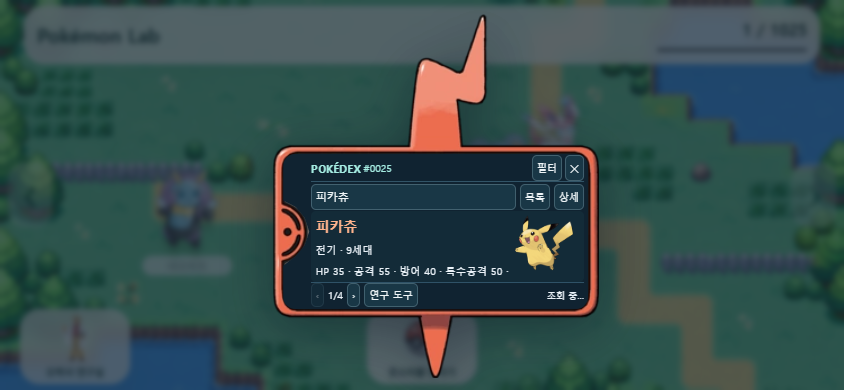
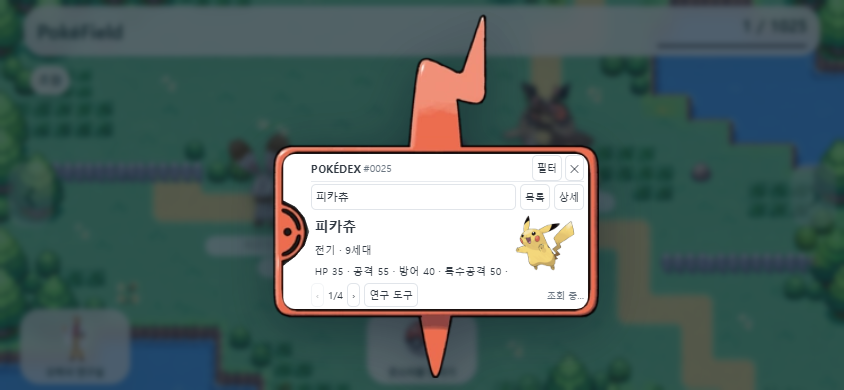
feat: PokéField 브랜딩과 필드·도감·포획 알림 개선

diff --git a/src/field/field.js b/src/field/field.js
@@ -3,7 +3,7 @@ export default function(component) {
  const {parentElement:root,data,setTriggerValue}=component;root.__pokemonLabCleanup?.();
  const $=s=>root.querySelector(s),field=$('#field'),creatures=$('#creatures'),ball=$('#throw'),projectile=$('#projectile'),aim=$('#aim'),notice=$('#notice'),background=$('#map-background');
  const regions=data.regions,byId=new Map(data.pool.map(p=>[p.id,p])),storageKey='pokemon-lab-regions-v2';let saved={};try{saved=JSON.parse(sessionStorage.getItem(storageKey)||'{}')}catch(_){}
- let stopped=false,frame=0,last=performance.now(),lastSave=0,flight=null,drag=null,swap=null,rotom=null;const timers=new Set();
+ let stopped=false,frame=0,last=performance.now(),lastSave=0,flight=null,drag=null,swap=null,rotom=null;const timers=new Set();let toastTimer=null,toastHideTimer=null,captureToast=saved.captureToast||null;
  function later(fn,ms){const id=setTimeout(()=>{timers.delete(id);if(!stopped)fn()},ms);timers.add(id);return id}
  let regionIndex=Math.max(0,Math.min(regions.length-1,Number(saved.regionIndex)||0));
  let targetCount=saved.targetCount||randomCount(),actors=(saved.actors||[]).filter(a=>regions[regionIndex].pool_ids.includes(a.id)&&a.phase!=='captured');
@@ -12,27 +12,38 @@ export default function(component) {
  let pending=saved.pending||null,popup=saved.popup||null,dexOpen=!!saved.dexOpen,nextSpawn=0;
  function current(){return regions[regionIndex]}
  function randomCount(){return Math.min(3+Math.floor(Math.random()*8),regions[regionIndex].pool_ids.length)}
- function save(){try{sessionStorage.setItem(storageKey,JSON.stringify({regionIndex,targetCount,actors:actors.map(({el,...a})=>a),pending,popup,dexOpen,target,appliedTarget}))}catch(_){} }
- function bounds(){const f=field.getBoundingClientRect(),h=$('header').getBoundingClientRect(),footer=$('footer').getBoundingClientRect(),size=f.width<600?72:90,height=f.width<600?90:110;return {w:f.width,h:f.height,size,height,left:62,top:Math.max(12,h.bottom-f.top+20),right:Math.max(62,f.width-size-62),bottom:Math.max(h.bottom-f.top+20,footer.top-f.top-height-12)}}
+ function save(){try{sessionStorage.setItem(storageKey,JSON.stringify({regionIndex,targetCount,actors:actors.map(({el,...a})=>a),pending,popup,dexOpen,target,appliedTarget,captureToast}))}catch(_){} }
+ function bounds(){const f=field.getBoundingClientRect(),h=$('header').getBoundingClientRect(),footer=$('footer').getBoundingClientRect(),style=getComputedStyle(field),size=parseFloat(style.getPropertyValue('--pokemon-size'))||(f.width<=600?84:108),height=parseFloat(style.getPropertyValue('--pokemon-height'))||(f.width<=600?106:130),imageSize=parseFloat(style.getPropertyValue('--pokemon-image-size'))||(f.width<=600?82:104);return {w:f.width,h:f.height,size,height,imageSize,left:62,top:Math.max(12,h.bottom-f.top+20),right:Math.max(62,f.width-size-62),bottom:Math.max(h.bottom-f.top+20,footer.top-f.top-height-12)}}
  function updateControls(){const locked=!!(pending||popup||swap||flight||data.panel||rotom?.isLocked());$('#region-prev').disabled=locked;$('#region-next').disabled=locked;ball.disabled=locked;$('#professor').disabled=!!(pending||popup||swap||rotom?.isLocked());$('#dex').disabled=!!(pending||popup||swap||rotom?.isLocked())}
- function showRegion(){background.style.backgroundImage=`url("${new URL(current().background,document.baseURI).href}")`;$('#region-name').textContent=current().name;$('#region-summary').textContent=` · 9세대 기준 · 목표 ${targetCount}마리`;field.dataset.region=current().id;notice.textContent=current().pool_ids.length?`${current().name}에서 새로운 포켓몬을 만나 보세요!`:'이 지역에 확인된 출현 후보가 없어요.'}
+ function showRegion(){notice.dataset.kind='info';background.style.backgroundImage=`url("${new URL(current().background,document.baseURI).href}")`;$('#region-name').textContent=current().name;field.dataset.region=current().id;notice.textContent=current().pool_ids.length?`${current().name}에서 새로운 포켓몬을 만나 보세요!`:'이 지역에 확인된 출현 후보가 없어요.'}
  $('#progress-count').textContent=`${data.count} / ${data.total}`;$('#progress-bar').max=data.total;$('#progress-bar').value=data.count;
  for(const id of ['professor','dex','throw'])$(`#${id} .art`).innerHTML=data.assets[id==='throw'?'ball':id];
  projectile.innerHTML=data.assets.ball;projectile.style.display='none';projectile.classList.remove('shake');showRegion();
+ function restoreCaptureToast(){
+  const toast=$('#capture-toast');
+  for(const timer of [toastTimer,toastHideTimer]){clearTimeout(timer);timers.delete(timer)}
+  toastTimer=null;toastHideTimer=null;
+  if(!captureToast||Date.now()>=captureToast.until+300){toast.hidden=true;toast.classList.remove('fading');captureToast=null;return}
+  toast.textContent=captureToast.text;toast.hidden=false;toast.classList.toggle('fading',Date.now()>=captureToast.until);
+  toastTimer=later(()=>toast.classList.add('fading'),Math.max(0,captureToast.until-Date.now()));
+  toastHideTimer=later(()=>{toast.hidden=true;toast.classList.remove('fading');captureToast=null;save()},Math.max(0,captureToast.until+300-Date.now()));
+ }
+ function showCaptureToast(text){captureToast={text,until:Date.now()+3000};restoreCaptureToast();save()}
+ restoreCaptureToast();
  function catchable(a){return a.phase==='wandering'||a.phase==='idle'}
  function direction(a){const directions=[[-1,0],[1,0],[0,-1],[0,1],[-1,-1],[1,-1],[-1,1],[1,1]], [dx,dy]=directions[Math.floor(Math.random()*8)],length=Math.hypot(dx,dy);a.phase='wandering';a.vx=dx/length;a.vy=dy/length;if(dx)a.face=dx;a.turn=1.5+Math.random()*2.5}
  function nextAction(a){if(a.phase!=='idle'&&Math.random()<.3){a.phase='idle';a.vx=0;a.vy=0;a.turn=.8+Math.random()*1.7}else direction(a)}
  function spot(b){let best=null,bestDistance=-1;for(let i=0;i<35;i++){const x=(b.left+Math.random()*Math.max(0,b.right-b.left))/b.w,y=(b.top+Math.random()*Math.max(0,b.bottom-b.top))/b.h,distance=Math.min(...actors.map(a=>{const p=a.phase==='entering'&&a.motion?a.motion.to:a;return Math.hypot((p.x-x)*b.w,(p.y-y)*b.h)}),99999);if(distance>bestDistance){best={x,y};bestDistance=distance}if(distance>b.size*1.3)break}return best}
  function motion(a,to,duration){a.motion={from:{x:a.x,y:a.y},to,elapsed:0,duration};if(Math.abs(to.x-a.x)>.001)a.face=to.x<a.x?-1:1}
- function mount(a){const p=byId.get(a.id),el=document.createElement('button');el.className='pokemon';el.dataset.pokemonId=String(a.id);el.setAttribute('aria-label',`${p.name}에게 몬스터볼 던지기`);const img=document.createElement('img');img.src=p.image;img.alt=p.name;img.draggable=false;img.onerror=()=>img.style.display='none';const label=document.createElement('span');label.textContent=p.name;const badge=document.createElement('small');badge.className='target-badge';badge.textContent='목표 포켓몬';badge.hidden=true;el.append(img,label,badge);creatures.append(el);a.el=el;el.onkeydown=e=>{if((e.key==='Enter'||e.key===' ')&&catchable(a)){e.preventDefault();const r=el.getBoundingClientRect(),f=field.getBoundingClientRect();throwTo(r.x+r.width/2-f.x,r.y+bounds().size/2-f.y)}}}
+ function mount(a){const p=byId.get(a.id),el=document.createElement('button');el.className='pokemon';el.dataset.pokemonId=String(a.id);el.setAttribute('aria-label',`${p.name}에게 몬스터볼 던지기`);const img=document.createElement('img');img.src=p.image;img.alt=p.name;img.draggable=false;img.onerror=()=>img.style.display='none';const label=document.createElement('span');label.textContent=p.name;const badge=document.createElement('small');badge.className='target-badge';badge.textContent='목표 포켓몬';badge.hidden=true;el.append(img,label,badge);creatures.append(el);a.el=el;el.onkeydown=e=>{if((e.key==='Enter'||e.key===' ')&&catchable(a)){e.preventDefault();const r=el.getBoundingClientRect(),f=field.getBoundingClientRect();throwTo(r.x+r.width/2-f.x,r.y+bounds().imageSize/2-f.y)}}}
  function spawn(preferred=null){const available=current().pool_ids.filter(id=>byId.has(id)&&!actors.some(a=>a.id===id)&&(preferred===null||id===preferred));if(!available.length)return;const b=bounds(),to=spot(b),side=Math.floor(Math.random()*4),a={id:available[Math.floor(Math.random()*available.length)],x:to.x,y:to.y,phase:'entering',face:1,speed:25+Math.random()*17,age:0,lifetime:20+Math.random()*25};if(side===0)a.x=-(b.size+8)/b.w;if(side===1)a.x=1.02;if(side===2)a.y=-(b.height+8)/b.h;if(side===3)a.y=1.02;motion(a,to,.9+Math.random()*.6);actors.push(a);mount(a)}
  function remove(a){a.el?.remove();actors=actors.filter(other=>other!==a)}
  function exit(a,quick=false){if(!quick&&target?.pokemon_id===a.id)return;if(!catchable(a)&&a.phase!=='entering')return;const b=bounds(),options=[{x:-(b.size+8)/b.w,y:a.y},{x:1.02,y:a.y},{x:a.x,y:-(b.height+8)/b.h},{x:a.x,y:1.02}];let to=options[Math.floor(Math.random()*4)];if(quick)to=options.sort((p,q)=>Math.hypot((p.x-a.x)*b.w,(p.y-a.y)*b.h)-Math.hypot((q.x-a.x)*b.w,(q.y-a.y)*b.h))[0];a.phase='exiting';motion(a,to,quick?.55:Math.max(.8,Math.hypot((to.x-a.x)*b.w,(to.y-a.y)*b.h)/140))}
  creatures.replaceChildren();actors.forEach(mount);
  function stars(point){const host=$('#particles'),b=bounds();for(let i=0;i<24;i++){const p=document.createElement('span');p.className='spark';p.textContent=i%3?'✦':'★';const angle=i/24*Math.PI*2,distance=45+Math.random()*70;p.style.left=`${point.x*b.w}px`;p.style.top=`${point.y*b.h}px`;p.style.setProperty('--dx',`${Math.cos(angle)*distance}px`);p.style.setProperty('--dy',`${Math.sin(angle)*distance}px`);p.style.color=['#ffd45a','#fff1b8','#fff'][i%3];host.append(p);later(()=>p.remove(),1100)}}
  function renderPopup(){const el=$('#capture-popup');el.hidden=!popup;if(!popup)return;const p=popup.detail||byId.get(popup.record.pokemon_id),record=popup.record;$('#capture-message').textContent=record.catch_count===1?'새로운 포켓몬을 수집했어요!':'포켓몬을 다시 포획했어요!';$('#capture-image').src=p.image||byId.get(p.id)?.image||'';$('#capture-name').textContent=`#${String(p.number).padStart(4,'0')} ${p.name}`;$('#capture-types').textContent=`${p.types.join(' / ')} · ${p.generation}세대`;$('#capture-stats').style.display='none';$('#capture-record').textContent=`수집 완료 · 누적 포획 ${record.catch_count}회`;updateControls()}
- if(pending&&data.ack?.event_id===pending.event_id){const a=actors.find(a=>a.id===pending.pokemon_id);if(data.ack.ok){if(target?.pokemon_id===pending.pokemon_id){const completed=target;target=null;tracking('captured',completed)}if(a){a.phase='captured';remove(a)}popup={detail:{...(data.ack.detail||byId.get(pending.pokemon_id)),image:byId.get(pending.pokemon_id)?.image},record:data.ack.record,point:pending.point};notice.textContent=`${popup.detail.name} 수집 기록 저장 완료!`;const point=popup.point;later(()=>stars(point),20);nextSpawn=.5}else{if(a){a.phase='wandering';a.motion=null;a.el.classList.remove('catching')}notice.textContent='기록을 저장하지 못했어요. 다시 시도해 주세요.'}pending=null;save()}
- if(pending){const a=actors.find(a=>a.id===pending.pokemon_id);if(a)a.phase='capturing';notice.textContent='포획 기록을 저장하고 있어요…';later(()=>setTriggerValue('capture',pending),500)}
+ if(pending&&data.ack?.event_id===pending.event_id){const a=actors.find(a=>a.id===pending.pokemon_id);if(data.ack.ok){if(target?.pokemon_id===pending.pokemon_id){const completed=target;target=null;tracking('captured',completed)}if(a){a.phase='captured';remove(a)}popup={detail:{...(data.ack.detail||byId.get(pending.pokemon_id)),image:byId.get(pending.pokemon_id)?.image},record:data.ack.record,point:pending.point};if(notice.dataset.kind==='capture-progress'){notice.textContent='';notice.dataset.kind='info'}showCaptureToast(`${popup.detail.name} 수집 기록 저장 완료!`);const point=popup.point;later(()=>stars(point),20);nextSpawn=.5}else{if(a){a.phase='wandering';a.motion=null;a.el.classList.remove('catching')}notice.textContent='기록을 저장하지 못했어요. 다시 시도해 주세요.'}pending=null;save()}
+ if(pending){const a=actors.find(a=>a.id===pending.pokemon_id);if(a)a.phase='capturing';notice.dataset.kind='capture-progress';notice.textContent='포획 기록을 저장하고 있어요…';later(()=>setTriggerValue('capture',pending),500)}
  renderPopup();$('#capture-confirm').onclick=()=>{popup=null;renderPopup();save();updateControls()};
  const rotomOptions={root,data:data.rotom,onRequest:request=>setTriggerValue('rotom',request),onTools:action=>setTriggerValue('action',{...action,region:current().id}),onLockChange:updateControls};
  if(root.__rotomController){rotom=root.__rotomController;rotom.update(rotomOptions)}else{rotom=mountRotom(rotomOptions);root.__rotomController=rotom}
@@ -66,7 +77,7 @@ export default function(component) {
  function ballStart(){const f=field.getBoundingClientRect(),b=ball.querySelector('.art').getBoundingClientRect();return{x:b.left+b.width/2-f.left,y:b.top+b.height/2-f.top}}
  function throwTo(x,y){if(flight||pending||popup||swap||data.panel||rotom?.isLocked())return;const p=ballStart();flight={sx:p.x,sy:p.y,tx:x,ty:y,t:0,previous:p};projectile.style.display='block';projectile.classList.remove('shake');notice.textContent='몬스터볼이 날아가요!';updateControls()}
  function hitSegment(from,to,rect){const dx=to.x-from.x,dy=to.y-from.y;let lo=0,hi=1;for(const[p,q]of[[-dx,from.x-rect.left],[dx,rect.right-from.x],[-dy,from.y-rect.top],[dy,rect.bottom-from.y]]){if(p===0){if(q<0)return false}else{const t=q/p;if(p<0)lo=Math.max(lo,t);else hi=Math.min(hi,t);if(lo>hi)return false}}return true}
- function capture(a,p){flight=null;a.phase='capturing';a.motion=null;a.el.classList.add('catching');projectile.classList.add('shake');notice.textContent=`${byId.get(a.id).name} 포획 중…`;const b=bounds();pending={pokemon_id:a.id,event_id:crypto.randomUUID(),region:current().id,target_request_id:target?.pokemon_id===a.id?target.request_id:null,point:{x:p.x/b.w,y:p.y/b.h}};save();updateControls();later(()=>{notice.textContent='포획 기록을 저장하고 있어요…';setTriggerValue('capture',pending)},1000)}
+ function capture(a,p){flight=null;a.phase='capturing';a.motion=null;a.el.classList.add('catching');projectile.classList.add('shake');notice.dataset.kind='capture-progress';notice.textContent=`${byId.get(a.id).name} 포획 중…`;const b=bounds();pending={pokemon_id:a.id,event_id:crypto.randomUUID(),region:current().id,target_request_id:target?.pokemon_id===a.id?target.request_id:null,point:{x:p.x/b.w,y:p.y/b.h}};save();updateControls();later(()=>{notice.dataset.kind='capture-progress';notice.textContent='포획 기록을 저장하고 있어요…';setTriggerValue('capture',pending)},1000)}
  ball.onpointerdown=e=>{if(flight||pending||popup||swap||data.panel||rotom?.isLocked())return;e.preventDefault();ball.setPointerCapture(e.pointerId);drag=e.pointerId;aim.style.display='block'};
  ball.onpointermove=e=>{if(drag!==e.pointerId)return;const p=point(e);aim.style.left=`${p.x-21}px`;aim.style.top=`${p.y-21}px`};ball.onpointerup=e=>{if(drag!==e.pointerId)return;drag=null;aim.style.display='none';const p=point(e);if(p.x<0||p.x>field.clientWidth||p.y<0||p.y>field.clientHeight){notice.textContent='필드 안으로 조준해 주세요.';return}throwTo(p.x,p.y)};ball.onpointercancel=()=>{drag=null;aim.style.display='none'};
  function animate(now){if(stopped)return;processTarget();ensureTarget();trackingUI();const dt=Math.min((now-last)/1000,.05);last=now;const b=bounds();
@@ -77,7 +88,7 @@ export default function(component) {
    const isTarget=target?.pokemon_id===a.id;a.el.classList.toggle('hunt-target',isTarget);a.el.querySelector('.target-badge').hidden=!isTarget;a.el.dataset.phase=a.phase;a.el.style.transform=`translate(${a.x*b.w}px,${a.y*b.h}px)`;a.el.querySelector('img').style.transform=`scaleX(${a.face<0?-1:1})`;a.el.disabled=!catchable(a)||!!popup||!!swap||!!rotom?.isLocked();
   }
   if(swap?.phase==='exiting'&&!actors.length){swap.phase='fading';background.classList.add('fading');later(()=>{regionIndex=swap.index;targetCount=randomCount();showRegion();background.classList.remove('fading');swap=null;nextSpawn=.2;save();tracking('region');updateControls()},300)}
-  if(flight){const f=flight;f.t+=dt;const t=Math.min(1,f.t/.65),p={x:f.sx+(f.tx-f.sx)*t,y:f.sy+(f.ty-f.sy)*t-55*Math.sin(Math.PI*t)};projectile.style.left=`${p.x-17}px`;projectile.style.top=`${p.y-17}px`;projectile.style.rotate=`${t*500}deg`;const a=actors.find(a=>catchable(a)&&hitSegment(f.previous,p,{left:a.x*b.w+8,right:a.x*b.w+b.size-8,top:a.y*b.h+8,bottom:a.y*b.h+b.size}));if(a)capture(a,p);else if(t===1){flight=null;projectile.style.display='none';notice.textContent='아쉬워요! 다음에는 맞힐 수 있어요.';updateControls()}else f.previous=p}
+  if(flight){const f=flight;f.t+=dt;const t=Math.min(1,f.t/.65),p={x:f.sx+(f.tx-f.sx)*t,y:f.sy+(f.ty-f.sy)*t-55*Math.sin(Math.PI*t)};projectile.style.left=`${p.x-17}px`;projectile.style.top=`${p.y-17}px`;projectile.style.rotate=`${t*500}deg`;const a=actors.find(a=>catchable(a)&&hitSegment(f.previous,p,{left:a.x*b.w+(b.size-b.imageSize)/2+8,right:a.x*b.w+(b.size+b.imageSize)/2-8,top:a.y*b.h+8,bottom:a.y*b.h+b.imageSize-2}));if(a)capture(a,p);else if(t===1){flight=null;projectile.style.display='none';notice.textContent='아쉬워요! 다음에는 맞힐 수 있어요.';updateControls()}else f.previous=p}
   if(now-lastSave>500){save();lastSave=now}frame=requestAnimationFrame(animate)
  }
  updateControls();frame=requestAnimationFrame(animate);

diff --git a/src/field/rotom.css b/src/field/rotom.css
@@ -2,10 +2,18 @@
 #dex.tool{background:transparent;border:0;box-shadow:none;backdrop-filter:none;min-width:0}#dex.tool:hover,#dex.tool:focus-visible{background:transparent;outline:0}#dex .art{height:100px;width:105px}#dex .art img{height:100%;width:auto;max-width:100%;object-fit:contain;filter:drop-shadow(0 6px 6px #17372b70);transition:transform .2s,filter .2s}#dex:hover .art img{transform:scale(1.06);filter:drop-shadow(0 8px 10px #ff9b7b70)}#dex strong,#dex small{display:none}
 #dex-transition.rotom-overlay[hidden]{display:none!important}#dex-transition.rotom-overlay{position:fixed;inset:0;display:block;perspective:1100px;z-index:35;background:transparent;transition:background .45s;overflow:hidden;touch-action:auto}#dex-transition.rotom-overlay.dim{background:#081927a8;backdrop-filter:blur(3px)}
 #rotom-stage{position:absolute;aspect-ratio:314/325;overflow:visible;transform:none;perspective:1100px;container-type:inline-size}#rotom-flip{width:100%;height:100%;position:relative;transform-style:preserve-3d}.rotom-face{position:absolute;inset:0;backface-visibility:hidden;-webkit-backface-visibility:hidden;transform-style:preserve-3d}.rotom-front{transform:rotateY(0deg)}.rotom-back{transform:rotateY(180deg)}.rotom-face>img{width:100%;height:100%;object-fit:contain;pointer-events:none;user-select:none}.rotom-frame{filter:drop-shadow(0 10px 25px #020b1a66)}
-#rotom-screen{position:absolute;background:#102331;opacity:0;border-radius:4% / 8%;clip-path:polygon(0 0,100% 0,100% 100%,0 100%,0 72%,4% 66%,7% 59%,8.5% 50%,7% 41%,4% 34%,0 30%);overflow:hidden;transition:opacity .38s;transform:translateZ(.1px);color:#edf4fa}#rotom-screen.lit{opacity:1}.rotom-content{position:absolute;inset:2% 2% 2% 9%;display:flex;flex-direction:column;opacity:0;pointer-events:none;min-height:0;background:#102331;font-size:clamp(11px,1.6cqw,14px);font-family:system-ui,'Malgun Gothic',sans-serif}.rotom-content.ready{opacity:1;pointer-events:auto}.rotom-top{display:flex;align-items:center;gap:6px;flex:none;min-height:30px;border-bottom:1px solid #315467;color:#a7eee4}.rotom-top strong{letter-spacing:1px;font-size:1em}.rotom-top span{margin-right:auto;font-size:.9em}.rotom-content button,.rotom-content select,.rotom-content input{font:inherit;border:1px solid #42616f;border-radius:5px;background:#193746;color:#f0f6f8;min-height:27px;padding:3px 6px;max-width:100%}.rotom-content button{cursor:pointer}.rotom-content button:hover{background:#31546a}.rotom-content button:disabled{opacity:.35;cursor:default}.rotom-content input{min-width:0;flex:1;outline-color:#fa9478}.rotom-search{display:flex;gap:4px;align-items:center;flex:none;min-height:32px}.rotom-search>button{display:none}#rotom-filters{display:flex;gap:4px;flex:none;margin:2px 0 4px}#rotom-filters select{min-width:0;flex:1;width:33%}#rotom-filters-toggle{display:none}#rotom-body{display:grid;grid-template-columns:minmax(110px,.85fr) minmax(0,1.4fr);gap:8px;flex:1;min-height:0;overflow:hidden}#rotom-list,#rotom-detail{overflow-y:auto;overflow-x:hidden;overscroll-behavior:contain;min-width:0;min-height:0;scrollbar-width:thin;scrollbar-color:#628d94 #142c38}#rotom-list{display:flex;flex-direction:column;gap:3px;padding-right:3px}.rotom-row{text-align:left;flex:none;white-space:nowrap;overflow:hidden;text-overflow:ellipsis;font-size:.95em!important}.rotom-row.selected{background:#865344;border-color:#f69b7d;color:#fff5dc}#rotom-detail{padding:0 5px 5px;line-height:1.65;background:#132b38;border-radius:5px}#rotom-detail h3{font-size:1.25em;margin:4px 0;color:#ffb48d}#rotom-detail h4{font-size:1em;margin:8px 0 2px;color:#9ee7dc}#rotom-detail p{margin:4px 0;font-size:.95em;overflow-wrap:anywhere}.rotom-pokemon{width:clamp(58px,12cqw,110px);height:clamp(58px,12cqw,110px);object-fit:contain;float:right;margin:0 3px 3px}.rotom-bottom{display:flex;align-items:center;gap:4px;flex:none;min-height:29px;border-top:1px solid #315467;font-size:.85em}.rotom-bottom button{min-height:24px;padding:2px 5px}#rotom-status{overflow:hidden;white-space:nowrap;text-overflow:ellipsis;margin-left:auto;font-size:.9em}#rotom-number{white-space:nowrap}
-@media(max-width:600px){#dex .art{height:82px;width:87px}.rotom-top{min-height:27px;gap:3px}.rotom-content{font-size:11px;inset:1% 1.5% 1% 9%}.rotom-content button,.rotom-content input,.rotom-content select{min-height:26px;padding:2px 4px}.rotom-search{min-height:29px}.rotom-search>button{display:block;font-size:10px}.rotom-top strong{font-size:11px;letter-spacing:0}.rotom-top span{font-size:10px}.rotom-bottom{min-height:26px;font-size:10px}#rotom-filters{display:none}#rotom-filters-toggle{display:block;font-size:10px}#rotom-stage.filters-open #rotom-filters{position:absolute;inset:28px 0 26px;background:#112b3a;z-index:5;display:flex;flex-direction:column;justify-content:center;padding:3px;gap:3px}#rotom-stage.filters-open #rotom-filters select{width:100%;flex:none;min-height:26px}#rotom-body{display:block}#rotom-list,#rotom-detail{height:100%}#rotom-stage[data-tab="list"] #rotom-detail{display:none}#rotom-stage[data-tab="detail"] #rotom-list{display:none}.rotom-row{min-height:28px!important}.rotom-pokemon{width:64px;height:64px}.rotom-bottom button{font-size:10px;min-height:24px}#rotom-status{max-width:60px}}
+#rotom-screen{position:absolute;background:#fff;opacity:0;border-radius:4% / 8%;clip-path:polygon(0 0,100% 0,100% 100%,0 100%,0 72%,4% 66%,7% 59%,8.5% 50%,7% 41%,4% 34%,0 30%);overflow:hidden;transition:opacity .38s;transform:translateZ(.1px);color:#303841}
+#rotom-screen.lit{opacity:1}.rotom-content{position:absolute;inset:2% 2% 2% 9%;display:flex;flex-direction:column;opacity:0;pointer-events:none;min-height:0;background:#fff;font-size:clamp(11px,1.6cqw,14px);font-family:system-ui,'Malgun Gothic',sans-serif}.rotom-content.ready{opacity:1;pointer-events:auto}
+.rotom-top{display:flex;align-items:center;gap:6px;flex:none;min-height:30px;border-bottom:1px solid #e8ebef;color:#303841}.rotom-top strong{letter-spacing:.5px;font-size:1em}.rotom-top span{margin-right:auto;font-size:.9em;color:#697480}
+.rotom-content button,.rotom-content select,.rotom-content input{font:inherit;border:1px solid #e1e5ea;border-radius:5px;background:#fff;color:#303841;min-height:27px;padding:3px 6px;max-width:100%}.rotom-content button{cursor:pointer}.rotom-content button:hover{background:#f3f6fa}.rotom-content button:disabled{opacity:.4;cursor:default}.rotom-content input{min-width:0;flex:1;outline-color:#3c78bb}.rotom-content button:focus-visible,.rotom-content select:focus-visible{outline:2px solid #6394ce;outline-offset:-2px}
+.rotom-search{display:flex;gap:4px;align-items:center;flex:none;min-height:32px}.rotom-search>button{display:none}#rotom-filters{display:flex;gap:4px;flex:none;margin:2px 0 5px}#rotom-filters select{min-width:0;flex:1;width:33%;background:#fafbfc}#rotom-filters-toggle{display:none}
+#rotom-body{display:grid;grid-template-columns:minmax(140px,1fr) minmax(0,1.4fr);gap:12px;flex:1;min-height:0;overflow:hidden}#rotom-list,#rotom-detail{overflow-y:auto;overflow-x:hidden;overscroll-behavior:contain;min-width:0;min-height:0;scrollbar-width:thin;scrollbar-color:#c5cbd2 #fff}#rotom-list{display:flex;flex-direction:column;gap:0;padding-right:5px;border-right:1px solid #edf0f3}
+.rotom-content .rotom-row{display:flex;align-items:center;gap:7px;text-align:left;flex:none;min-height:52px;padding:5px 4px;border:0;border-bottom:1px solid #edf0f3;border-radius:0;background:#fff;font-size:.95em!important}.rotom-row img{width:36px;height:36px;object-fit:contain;flex:none}.rotom-row-info{display:flex;flex-direction:column;gap:2px;min-width:0;flex:1}.rotom-row-info strong{font-size:1em;font-weight:600;white-space:nowrap;overflow:hidden;text-overflow:ellipsis}.rotom-row-info small{font-size:.82em;color:#737e89}.rotom-owned{font-size:11px;color:#7393b9;margin-left:auto}.rotom-content .rotom-row.selected{background:#eff5fc;color:#245c96;box-shadow:inset 2px 0 #467db4}
+#rotom-detail{padding:0 4px 5px;line-height:1.65;background:#fff}#rotom-detail h3{font-size:1.25em;margin:4px 0;color:#303841}#rotom-detail h4{font-size:1em;margin:10px 0 3px;color:#4d5b6a;font-weight:600}#rotom-detail p{margin:4px 0;font-size:.95em;overflow-wrap:anywhere}.rotom-pokemon{width:clamp(58px,12cqw,110px);height:clamp(58px,12cqw,110px);object-fit:contain;float:right;margin:0 3px 3px}
+.rotom-bottom{display:flex;align-items:center;gap:4px;flex:none;min-height:29px;border-top:1px solid #e8ebef;font-size:.85em}.rotom-bottom button{min-height:24px;padding:2px 5px}#rotom-status{overflow:hidden;white-space:nowrap;text-overflow:ellipsis;margin-left:auto;font-size:.9em;color:#697480}#rotom-number{white-space:nowrap}
+@media(max-width:600px){#dex .art{height:82px;width:87px}.rotom-top{min-height:27px;gap:3px}.rotom-content{font-size:11px;inset:1% 1.5% 1% 9%}.rotom-content button,.rotom-content input,.rotom-content select{min-height:26px;padding:2px 4px}.rotom-search{min-height:29px}.rotom-search>button{display:block;font-size:10px}.rotom-top strong{font-size:11px;letter-spacing:0}.rotom-top span{font-size:10px}.rotom-bottom{min-height:26px;font-size:10px}#rotom-filters{display:none}#rotom-filters-toggle{display:block;font-size:10px}#rotom-stage.filters-open #rotom-filters{position:absolute;inset:28px 0 26px;background:#fff;z-index:5;display:flex;flex-direction:column;justify-content:center;padding:3px;gap:3px}#rotom-stage.filters-open #rotom-filters select{width:100%;flex:none;min-height:26px}#rotom-body{display:block}#rotom-list,#rotom-detail{height:100%}#rotom-list{border-right:0;padding-right:0}#rotom-stage[data-tab="list"] #rotom-detail{display:none}#rotom-stage[data-tab="detail"] #rotom-list{display:none}.rotom-content .rotom-row{min-height:40px!important;padding:3px 2px;gap:5px}.rotom-row img{width:30px;height:30px}.rotom-row-info strong{font-size:10px}.rotom-row-info small{font-size:9px}.rotom-pokemon{width:64px;height:64px}.rotom-bottom button{font-size:10px;min-height:24px}#rotom-status{max-width:60px}}
 @media(prefers-reduced-motion:reduce){#rotom-screen,.rotom-content{transition:none}}
 
-@container(max-width:550px){#dex .art{height:82px;width:87px}.rotom-top{min-height:27px;gap:3px}.rotom-content{font-size:11px;inset:1% 1.5% 1% 9%}.rotom-content button,.rotom-content input,.rotom-content select{min-height:26px;padding:2px 4px}.rotom-search{min-height:29px}.rotom-search>button{display:block;font-size:10px}.rotom-top strong{font-size:11px;letter-spacing:0}.rotom-top span{font-size:10px}.rotom-bottom{min-height:26px;font-size:10px}#rotom-filters{display:none}#rotom-filters-toggle{display:block;font-size:10px}#rotom-stage.filters-open #rotom-filters{position:absolute;inset:28px 0 26px;background:#112b3a;z-index:5;display:flex;flex-direction:column;justify-content:center;padding:3px;gap:3px}#rotom-stage.filters-open #rotom-filters select{width:100%;flex:none;min-height:26px}#rotom-body{display:block}#rotom-list,#rotom-detail{height:100%}#rotom-stage[data-tab="list"] #rotom-detail{display:none}#rotom-stage[data-tab="detail"] #rotom-list{display:none}.rotom-row{min-height:28px!important}.rotom-pokemon{width:64px;height:64px}.rotom-bottom button{font-size:10px;min-height:24px}#rotom-status{max-width:60px}}
+@container(max-width:550px){#dex .art{height:82px;width:87px}.rotom-top{min-height:27px;gap:3px}.rotom-content{font-size:11px;inset:1% 1.5% 1% 9%}.rotom-content button,.rotom-content input,.rotom-content select{min-height:26px;padding:2px 4px}.rotom-search{min-height:29px}.rotom-search>button{display:block;font-size:10px}.rotom-top strong{font-size:11px;letter-spacing:0}.rotom-top span{font-size:10px}.rotom-bottom{min-height:26px;font-size:10px}#rotom-filters{display:none}#rotom-filters-toggle{display:block;font-size:10px}#rotom-stage.filters-open #rotom-filters{position:absolute;inset:28px 0 26px;background:#fff;z-index:5;display:flex;flex-direction:column;justify-content:center;padding:3px;gap:3px}#rotom-stage.filters-open #rotom-filters select{width:100%;flex:none;min-height:26px}#rotom-body{display:block}#rotom-list,#rotom-detail{height:100%}#rotom-list{border-right:0;padding-right:0}#rotom-stage[data-tab="list"] #rotom-detail{display:none}#rotom-stage[data-tab="detail"] #rotom-list{display:none}.rotom-content .rotom-row{min-height:40px!important;padding:3px 2px;gap:5px}.rotom-row img{width:30px;height:30px}.rotom-row-info strong{font-size:10px}.rotom-row-info small{font-size:9px}.rotom-pokemon{width:64px;height:64px}.rotom-bottom button{font-size:10px;min-height:24px}#rotom-status{max-width:60px}}
 
 @media(max-height:480px){#dex .art{height:58px;width:70px}}

diff --git a/src/field/field.html b/src/field/field.html
@@ -1,6 +1,6 @@
 <section class="lab" aria-label="포켓몬 수집 필드">
-  <header><div><span class="eyebrow">EXPLORE · CATCH · DISCOVER</span><h1>Pokémon Lab <small>수집 연구소</small></h1></div><div class="progress"><strong id="progress-count">0 / 1025</strong><span>나의 포켓몬 컬렉션</span><progress id="progress-bar" value="0" max="1025"></progress></div></header>
-  <div class="field" id="field"><div id="map-background"></div><div class="landmark"><strong id="region-name">초원</strong><span id="region-summary"></span></div><div id="tracking-controls" hidden><span id="tracking-name"></span><button id="cancel-target" type="button">추적 취소</button></div>
+  <header><div><h1>PokéField <small>수집 연구소</small></h1></div><div class="progress"><strong id="progress-count">0 / 1025</strong><span>나의 포켓몬 컬렉션</span><progress id="progress-bar" value="0" max="1025"></progress></div></header>
+  <div class="field" id="field"><div id="map-background"></div><div class="landmark"><strong id="region-name">초원</strong></div><div id="tracking-controls" hidden><span id="tracking-name"></span><button id="cancel-target" type="button">추적 취소</button></div>
 <div id="creatures"></div><div id="particles" aria-hidden="true"></div><div id="projectile" aria-hidden="true"></div><div id="aim"></div><p id="notice" role="status">오늘은 어떤 포켓몬을 만날까요?</p></div>
   <button id="region-prev" class="region-arrow" aria-label="이전 지역">❮</button><button id="region-next" class="region-arrow" aria-label="다음 지역">❯</button>
   <footer><button id="professor" class="tool" aria-label="오박사 챗봇 열기"><span class="art"></span><strong>오박사 연구실</strong><small>무엇이든 물어보세요</small></button><button id="throw" class="tool ball" aria-label="몬스터볼 드래그해서 던지기"><span class="art"></span><strong>몬스터볼 던지기</strong><small>누르고 → 조준하고 → 놓기</small></button><button id="dex" class="tool" aria-label="포켓몬 도감 열기"><span class="art"></span><strong>포켓몬 도감</strong><small>모든 포켓몬을 살펴봐요</small></button></footer>
@@ -18,6 +18,7 @@
       </div></div>
     </section>
   </div>
+  <div id="capture-toast" role="status" aria-live="polite" hidden></div>
   <div id="capture-popup" role="dialog" aria-label="포획 성공 정보" aria-modal="true" hidden>
     <article class="capture-card"><div id="capture-message"></div><img id="capture-image" alt="포획한 포켓몬"><h2 id="capture-name"></h2><p id="capture-types"></p><p id="capture-stats"></p><p id="capture-record"></p><div class="popup-actions"><button id="capture-confirm">확인</button><button id="capture-dex">도감에서 보기</button></div></article>
   </div>

diff --git a/src/field/field.css b/src/field/field.css
@@ -17,3 +17,14 @@ footer{position:absolute;left:0;right:0;bottom:calc(12px + env(safe-area-inset-b
 #professor .art img,#throw .art img{width:auto!important;height:100%;max-width:100%}
 
 #tracking-controls[hidden]{display:none}#tracking-controls{position:absolute;right:18px;top:112px;z-index:12;display:flex;gap:8px;align-items:center;padding:7px 10px;border-radius:12px;background:#fffdf1ed;color:#4c4632;font-size:12px;pointer-events:auto}#cancel-target{min-height:32px;border:1px solid #cfc6a8;border-radius:8px;padding:4px 8px;background:#fff;cursor:pointer;color:#514c3e}.pokemon.hunt-target:before{content:'';position:absolute;inset:-4px -5px 14px;border-radius:50%;background:radial-gradient(ellipse,#ffdf8855,transparent 68%);box-shadow:0 0 14px #e9bc5555;pointer-events:none;animation:target-glow 2.2s ease-in-out infinite;z-index:-1}.target-badge{position:absolute;top:-17px;left:50%;transform:translateX(-50%);white-space:nowrap;border-radius:7px;padding:2px 5px;background:#fff4c9;color:#685123;font-size:10px;pointer-events:none}.target-badge[hidden]{display:none}@keyframes target-glow{50%{opacity:.5;scale:1.07}}@media(prefers-reduced-motion:reduce){.pokemon.hunt-target:before{animation:none}}@media(max-width:600px){#tracking-controls{top:120px;right:10px;font-size:11px;gap:5px}}
+
+/* Shared CSS-pixel dimensions are also read by the movement/collision loop. */
+#field{--pokemon-size:108px;--pokemon-height:130px;--pokemon-image-size:104px}
+.pokemon{width:var(--pokemon-size);height:var(--pokemon-height)}
+.pokemon img{display:block;margin:0 auto;width:var(--pokemon-image-size);height:var(--pokemon-image-size);object-fit:contain}
+.pokemon span{margin-top:4px;line-height:1.4}
+header{height:64px;padding:8px 18px}header h1{margin:0}.landmark{top:100px}#tracking-controls{top:100px}
+#capture-toast[hidden]{display:none!important}#capture-toast{position:fixed;left:50%;bottom:calc(164px + env(safe-area-inset-bottom));transform:translateX(-50%);max-width:90vw;padding:10px 16px;border-radius:12px;background:#263b36ed;color:#fff;font-size:13px;text-align:center;pointer-events:none;z-index:45;opacity:1;transition:opacity .3s ease}
+#capture-toast.fading{opacity:0}
+@media(max-width:600px){#field{--pokemon-size:84px;--pokemon-height:106px;--pokemon-image-size:82px}header{height:68px;padding:8px 12px}.landmark{top:96px}#tracking-controls{top:108px}.pokemon span{font-size:10px;margin-top:3px}#capture-toast{bottom:calc(138px + env(safe-area-inset-bottom));font-size:11px;padding:8px 12px}}
+@media(max-height:480px){header{height:50px;padding:4px 12px}.landmark{display:block;top:66px;padding:5px 8px}#tracking-controls{top:66px}#capture-toast{bottom:102px;font-size:11px}}

diff --git a/src/field/rotom.js b/src/field/rotom.js
@@ -22,7 +22,7 @@ function mountRotom({root,data,onRequest,onTools,onLockChange}) {
  function render(result){if(!result||result.request_id!==requestId)return;response=result;if(result.error){$('#rotom-status').textContent=result.error;return}
   filters.page=result.page;$('#rotom-status').textContent=`${result.total}종`;$('#rotom-page').textContent=`${result.page}/${result.pages}`;$('#rotom-prev').disabled=result.page<=1;$('#rotom-next').disabled=result.page>=result.pages;
   const list=$('#rotom-list');list.replaceChildren();
-  for(const row of result.rows){const el=document.createElement('button');el.className='rotom-row';el.dataset.pokemonId=String(row.id);el.setAttribute('aria-label',`#${row.number} ${row.name}`);el.textContent=`${row.caught?'●':'○'} ${String(row.number).padStart(4,'0')} ${row.name}`;el.classList.toggle('selected',row.id===result.detail?.id);el.onclick=()=>{filters.selected_id=row.id;tab='detail';applyTab();send()};list.append(el)}
+  for(const row of result.rows){const el=document.createElement('button');el.className='rotom-row';el.dataset.pokemonId=String(row.id);el.setAttribute('aria-label',`#${row.number} ${row.name}`);const thumb=document.createElement('img');thumb.src=row.image||'';thumb.alt='';thumb.loading='lazy';thumb.onerror=()=>thumb.style.visibility='hidden';const info=document.createElement('span');info.className='rotom-row-info';const name=document.createElement('strong');name.textContent=`${String(row.number).padStart(4,'0')} ${row.name}`;const types=document.createElement('small');types.textContent=(row.types||[]).join(' / ');info.append(name,types);const owned=document.createElement('span');owned.className='rotom-owned';owned.textContent=row.caught?'●':'○';owned.setAttribute('aria-label',row.caught?'수집':'미수집');el.append(thumb,info,owned);el.classList.toggle('selected',row.id===result.detail?.id);el.onclick=()=>{filters.selected_id=row.id;tab='detail';applyTab();send()};list.append(el)}
   if(!result.rows.length)list.textContent='조건에 맞는 포켓몬이 없습니다.';
   const detail=$('#rotom-detail');detail.replaceChildren();const p=result.detail;
   function text(tag,value){const e=document.createElement(tag);e.textContent=value;detail.append(e);return e}

diff --git a/src/game_ui.py b/src/game_ui.py
@@ -37,7 +37,7 @@ def image_uri(path):
 
 def field_component():
     from streamlit.components.v2 import component
-    return component('pokemon_lab_field',html=(ASSETS/'field.html').read_text(encoding='utf-8'),css='/* Pokémon Lab */\n'+(ASSETS/'field.css').read_text(encoding='utf-8')+'\n'+(ASSETS/'rotom.css').read_text(encoding='utf-8'),js=(ASSETS/'rotom.js').read_text(encoding='utf-8')+'\n'+(ASSETS/'field.js').read_text(encoding='utf-8'))
+    return component('pokemon_lab_field',html=(ASSETS/'field.html').read_text(encoding='utf-8'),css='/* PokéField */\n'+(ASSETS/'field.css').read_text(encoding='utf-8')+'\n'+(ASSETS/'rotom.css').read_text(encoding='utf-8'),js=(ASSETS/'rotom.js').read_text(encoding='utf-8')+'\n'+(ASSETS/'field.js').read_text(encoding='utf-8'))
 
 def request_rotom():
     state=st.session_state.get('pokemon_field',{})
@@ -147,7 +147,7 @@ def render_field(settings,catalog,image_dir):
 
 def close_panel(): st.session_state['lab_panel']=None
 
-@st.dialog('Pokémon Lab · 포켓몬 센터',width='large',on_dismiss=close_panel)
+@st.dialog('PokéField · 포켓몬 센터',width='large',on_dismiss=close_panel)
 def render_panel(settings,catalog,image_dir,collection):
     if st.button('닫기 · 필드로 돌아가기',key='close_lab_panel'):
         close_panel(); st.rerun()

diff --git a/app.py b/app.py
@@ -1,4 +1,4 @@
-"""Pokémon Lab: viewport field with on-demand research overlays."""
+"""PokéField: viewport field with on-demand research overlays."""
 import streamlit as st
 from pathlib import Path
 from hashlib import sha256
@@ -6,7 +6,7 @@ from src.catalog import Catalog
 from src.settings import Settings
 from src.game_ui import render_field
 
-st.set_page_config(page_title='Pokémon Lab',page_icon='🔎',layout='wide',initial_sidebar_state='collapsed')
+st.set_page_config(page_title='PokéField',page_icon='🔎',layout='wide',initial_sidebar_state='collapsed')
 @st.cache_resource
 def catalog(path,implementation_revision): return Catalog(path)
 try:

diff --git a/src/rotom_data.py b/src/rotom_data.py
@@ -22,7 +22,7 @@ def query_dex(catalog,records,request,image_loader):
     if row is None and rows: row=rows[(page-1)*18]
     def brief(r):
         return {'id':r['pokemon_id'],'number':r['species_id'],'name':r['name_ko'],
-                'types':[TYPE_KO.get(t,t) for t in r.get('types') or []],'caught':r['pokemon_id'] in records}
+                'types':[TYPE_KO.get(t,t) for t in r.get('types') or []],'caught':r['pokemon_id'] in records,'image':image_loader(r['pokemon_id'])}
     detail=None
     if row:
         pid=row['pokemon_id'];sid=row['species_id'];species=catalog.species[sid]
